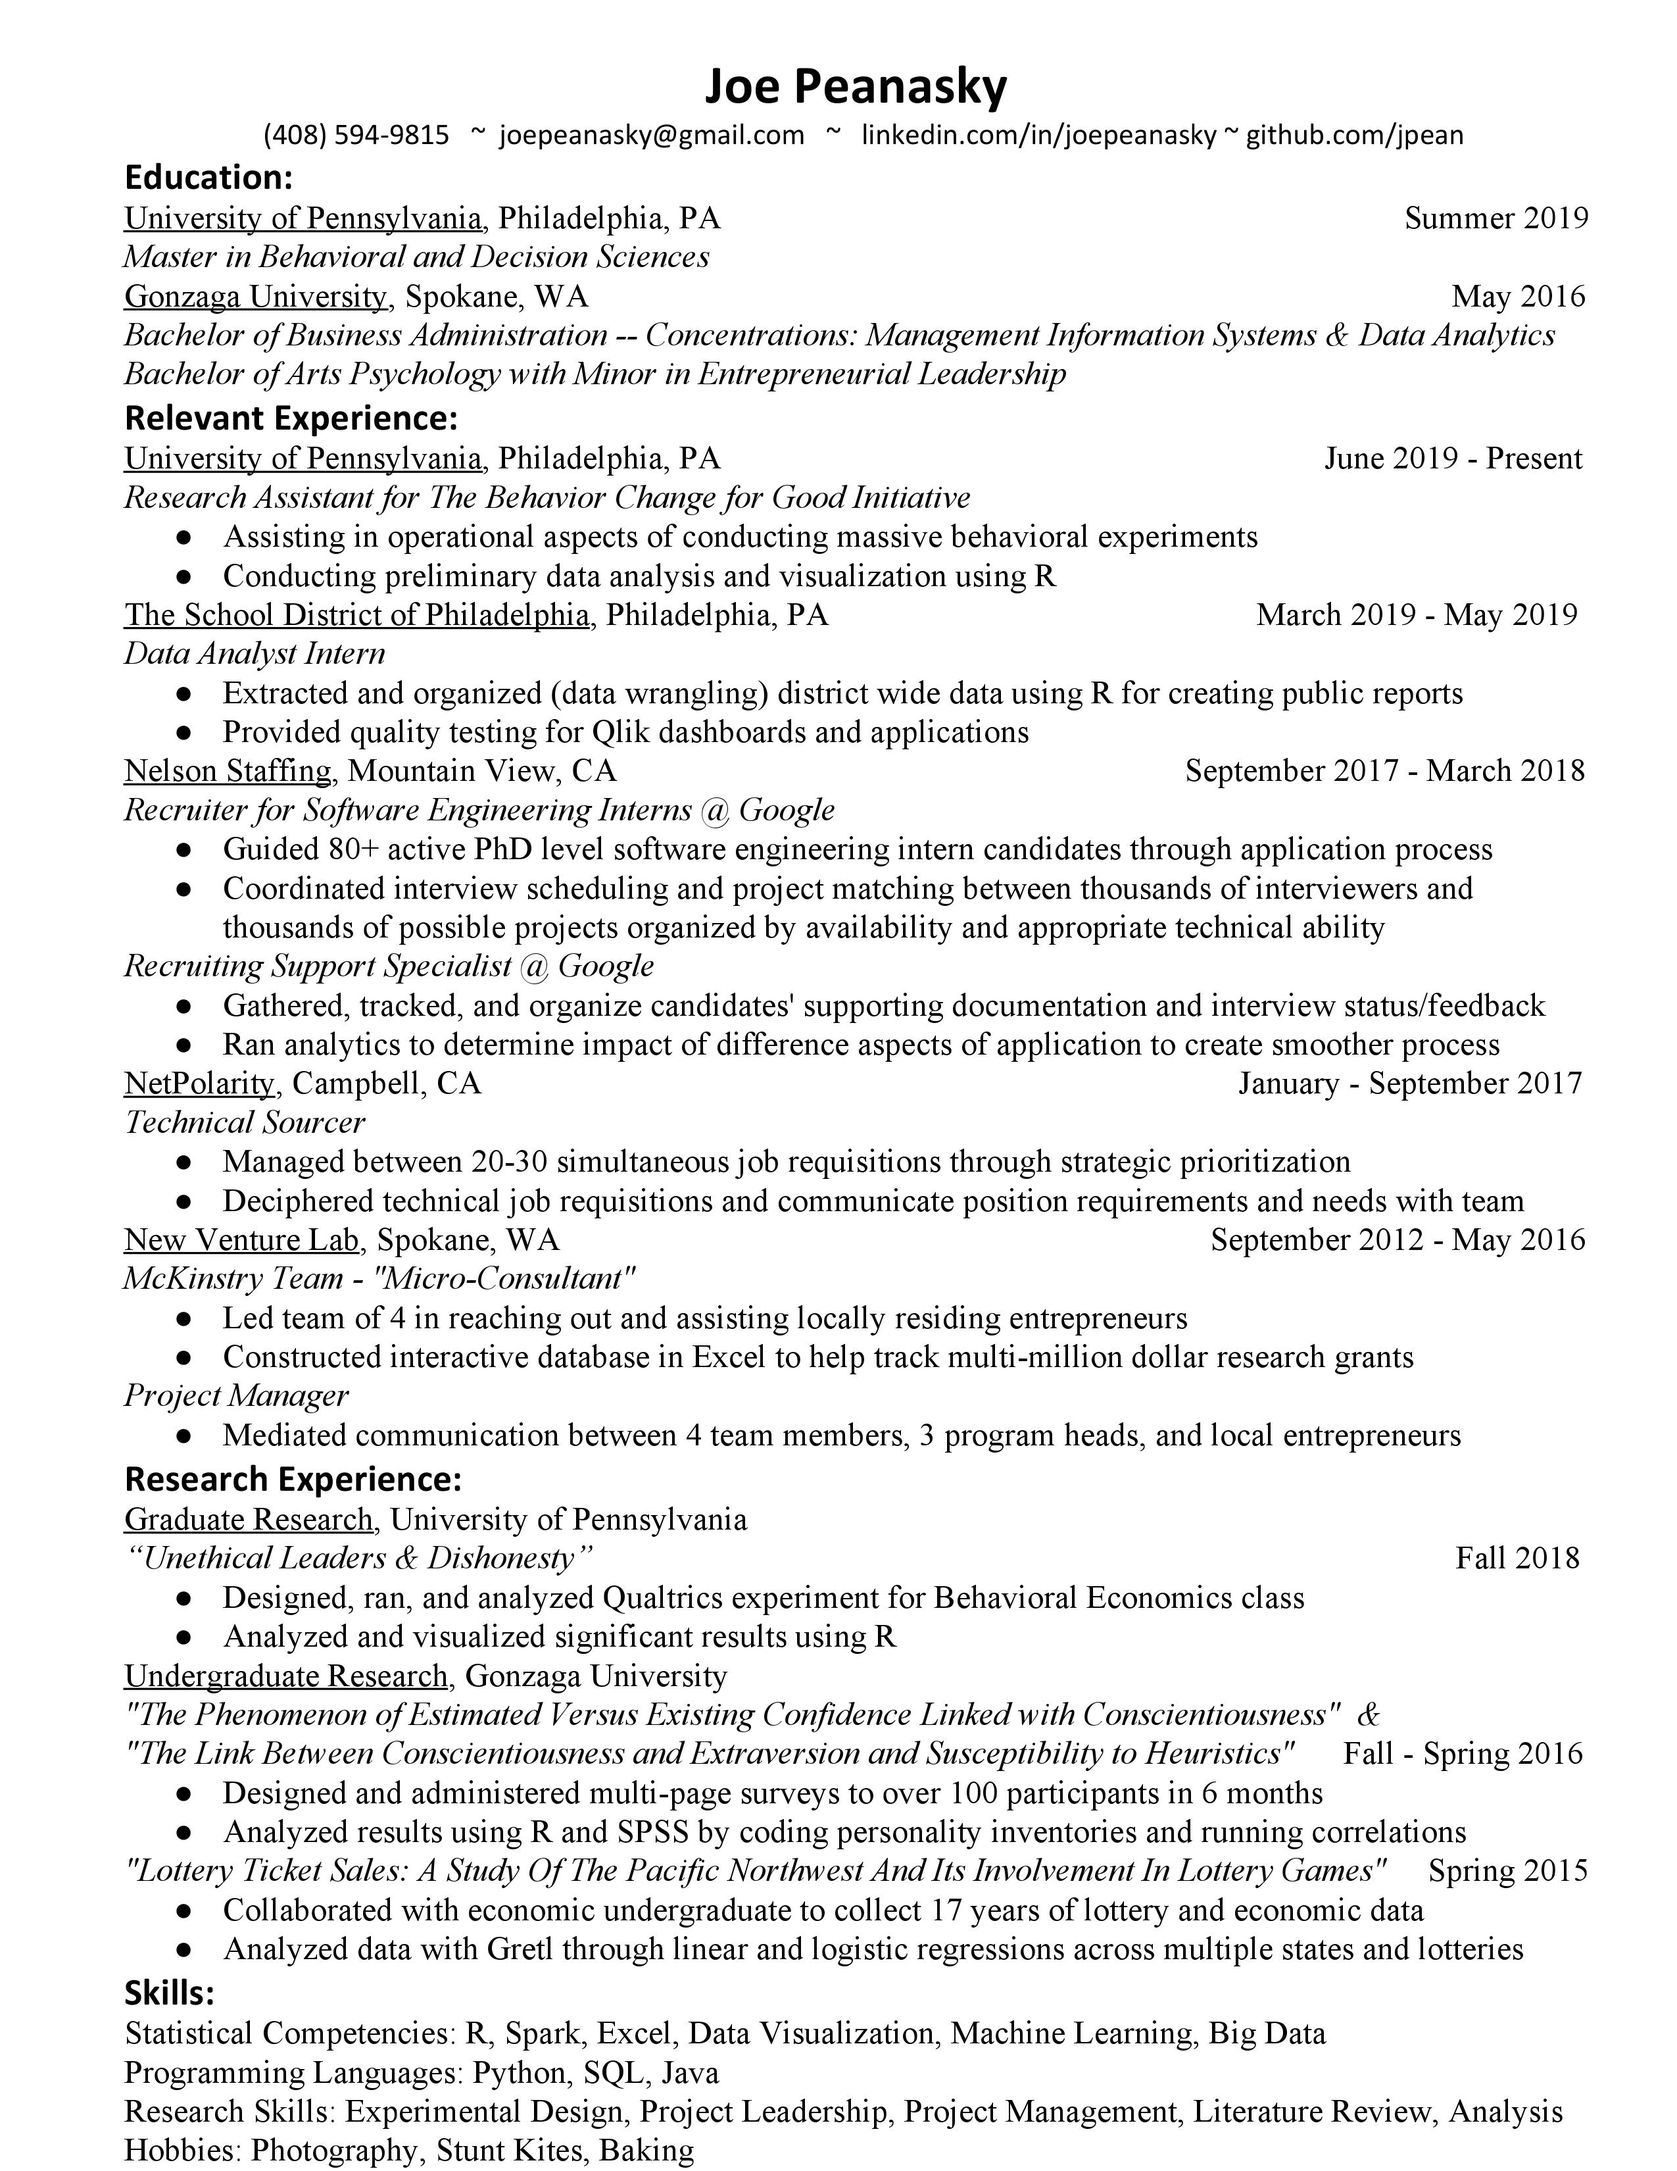
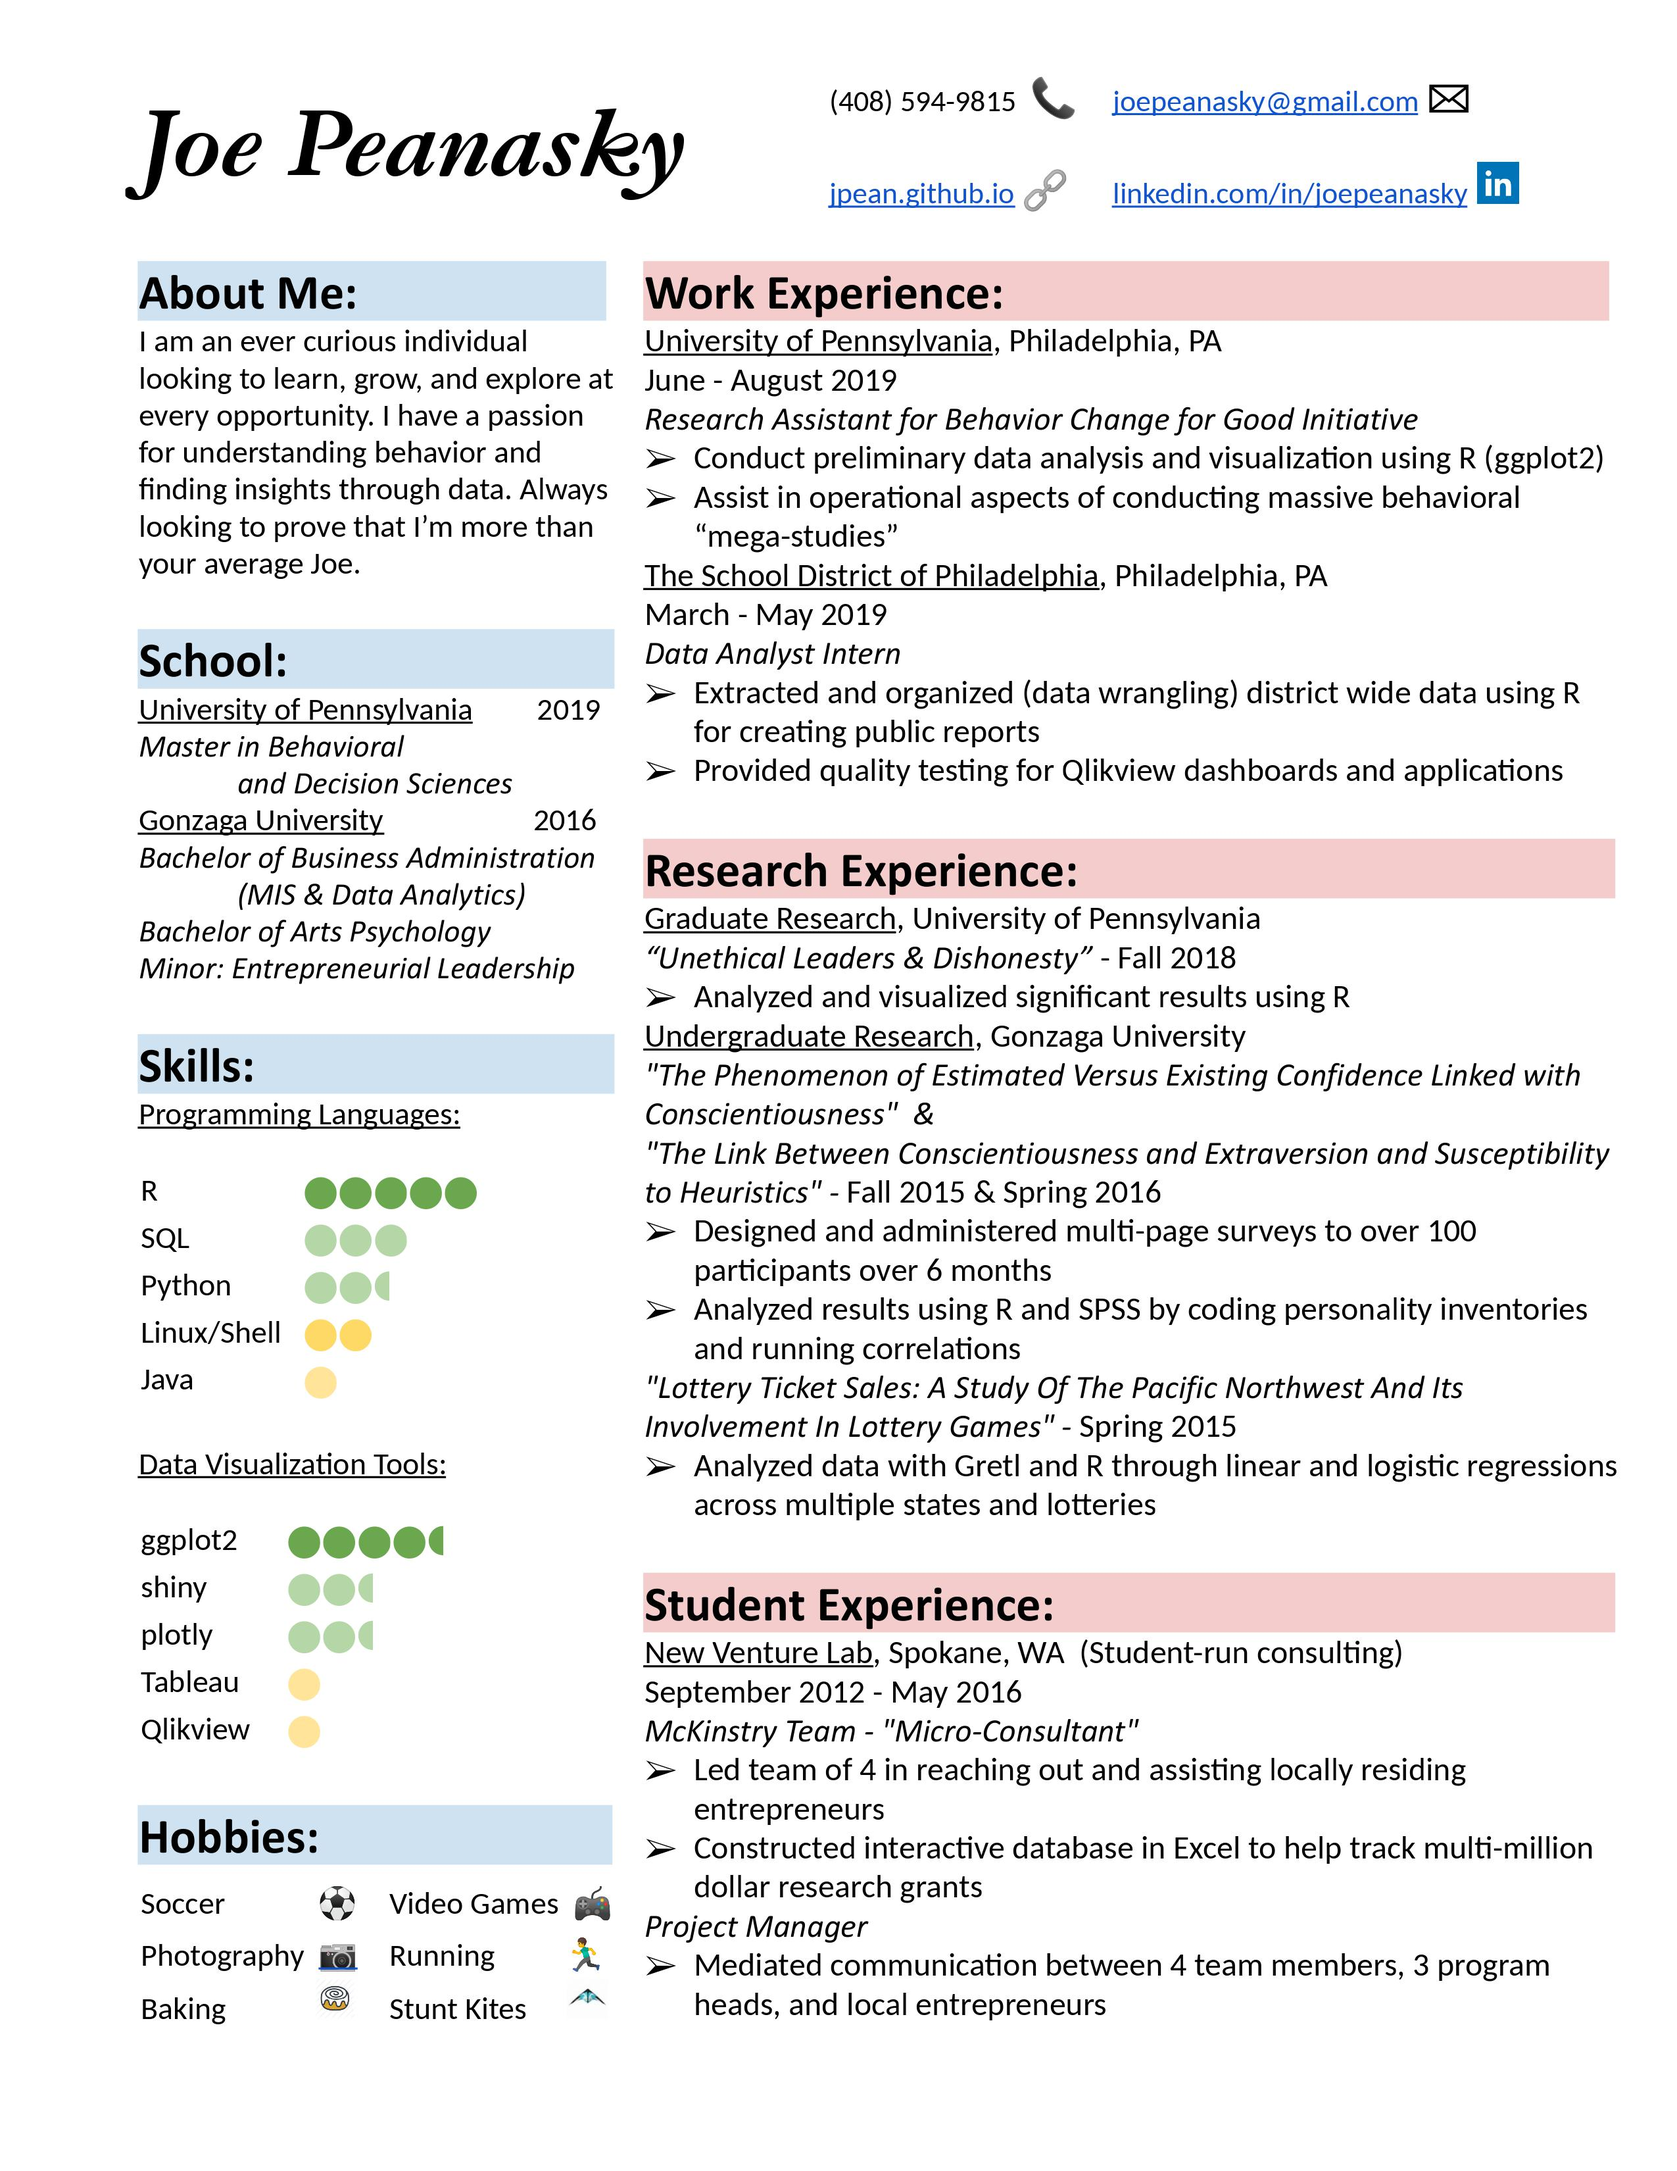
Update resume + some

diff --git a/index.html b/index.html
@@ -181,7 +181,7 @@ $(document).ready(function () {
     <div id="navbar" class="navbar-collapse collapse">
       <ul class="nav navbar-nav">
         <li>
-  <a href="index.html">Joe's Homepage</a>
+  <a href="index.html">Homepage</a>
 </li>
 <li>
   <a href="Resume.html">Resume/CV</a>
@@ -211,8 +211,8 @@ $(document).ready(function () {
 
 
 <p><img src="me.jpg" width="50%" style="float:left; padding:15px" /></p>
-<p>As I finish up my Master in Behavioral and Decision Sciences I am already excited for my next opportunity to learn and grow. My focus for now is continuing to improve my data science skills. I have been using R and SQL for over 4 years and recently picked up Python. From simple analytics, regressions, and dashboard creations to a variety of machine learning techniques, the more data science I learn the more excited I become. Ideally, I can find an opportunity to leverage both my data skills and my understanding of human behavior to shape the world into a more efficient and positive place.</p>
-<p>Beyond my academic and professional aspirations, I am ever curious individual always trying to explore and master new skills. Looking through this website you’ll find photos from my adventures traveling the world and experiencing new cultures. Wherever I end up in life I hope to pursue my passions and hobbies including soccer, baking, and photography.</p>
+<p>As I finish up my Master in Behavioral and Decision Sciences, I am already excited for my next opportunity to learn and grow. For now, my focus is continuing to improve my data science skills. I have been using R and SQL for over 4 years and recently picked up Python. From simple analytics, regressions, and dashboard creations to a variety of machine learning techniques, the more data science I learn the more excited I become. Ideally, I can find an opportunity to leverage both my data skills and my understanding of human behavior to shape the world into a more positive and efficient place.</p>
+<p>Beyond my academic and professional aspirations, I am an ever curious individual always trying to explore and master new skills. Looking through this website, you’ll find photos from my adventures traveling the world and experiencing new cultures. Wherever I end up in life I hope to pursue my passions and hobbies including soccer, baking, and photography.</p>
 
 
 

diff --git a/Resume.html b/Resume.html
@@ -181,7 +181,7 @@ $(document).ready(function () {
     <div id="navbar" class="navbar-collapse collapse">
       <ul class="nav navbar-nav">
         <li>
-  <a href="index.html">Joe's Homepage</a>
+  <a href="index.html">Homepage</a>
 </li>
 <li>
   <a href="Resume.html">Resume/CV</a>
@@ -208,8 +208,8 @@ $(document).ready(function () {
 </div>
 
 
-<p><em>Last updated 07/09/19</em></p>
-<p><img src="resume.jpg" width="90%" /></p>
+<p><em>Last updated 07/24/19</em></p>
+<p><a href="https://docs.google.com/document/d/15D19ecT8WBE3bT1_nvt-y2m7wbLOji0H87zRhvfzXrk/edit?usp=sharing"><img src="resume.jpg" alt="My Resume" /></a></p>
 
 
 

diff --git a/projects.html b/projects.html
@@ -11,7 +11,7 @@
 
 
 
-<title>Joe’s Projects</title>
+<title>My Projects</title>
 
 <script src="site_libs/jquery-1.11.3/jquery.min.js"></script>
 <meta name="viewport" content="width=device-width, initial-scale=1" />
@@ -204,7 +204,7 @@ $(document).ready(function () {
 
 
 
-<h1 class="title toc-ignore">Joe’s Projects</h1>
+<h1 class="title toc-ignore">My Projects</h1>
 
 </div>
 
